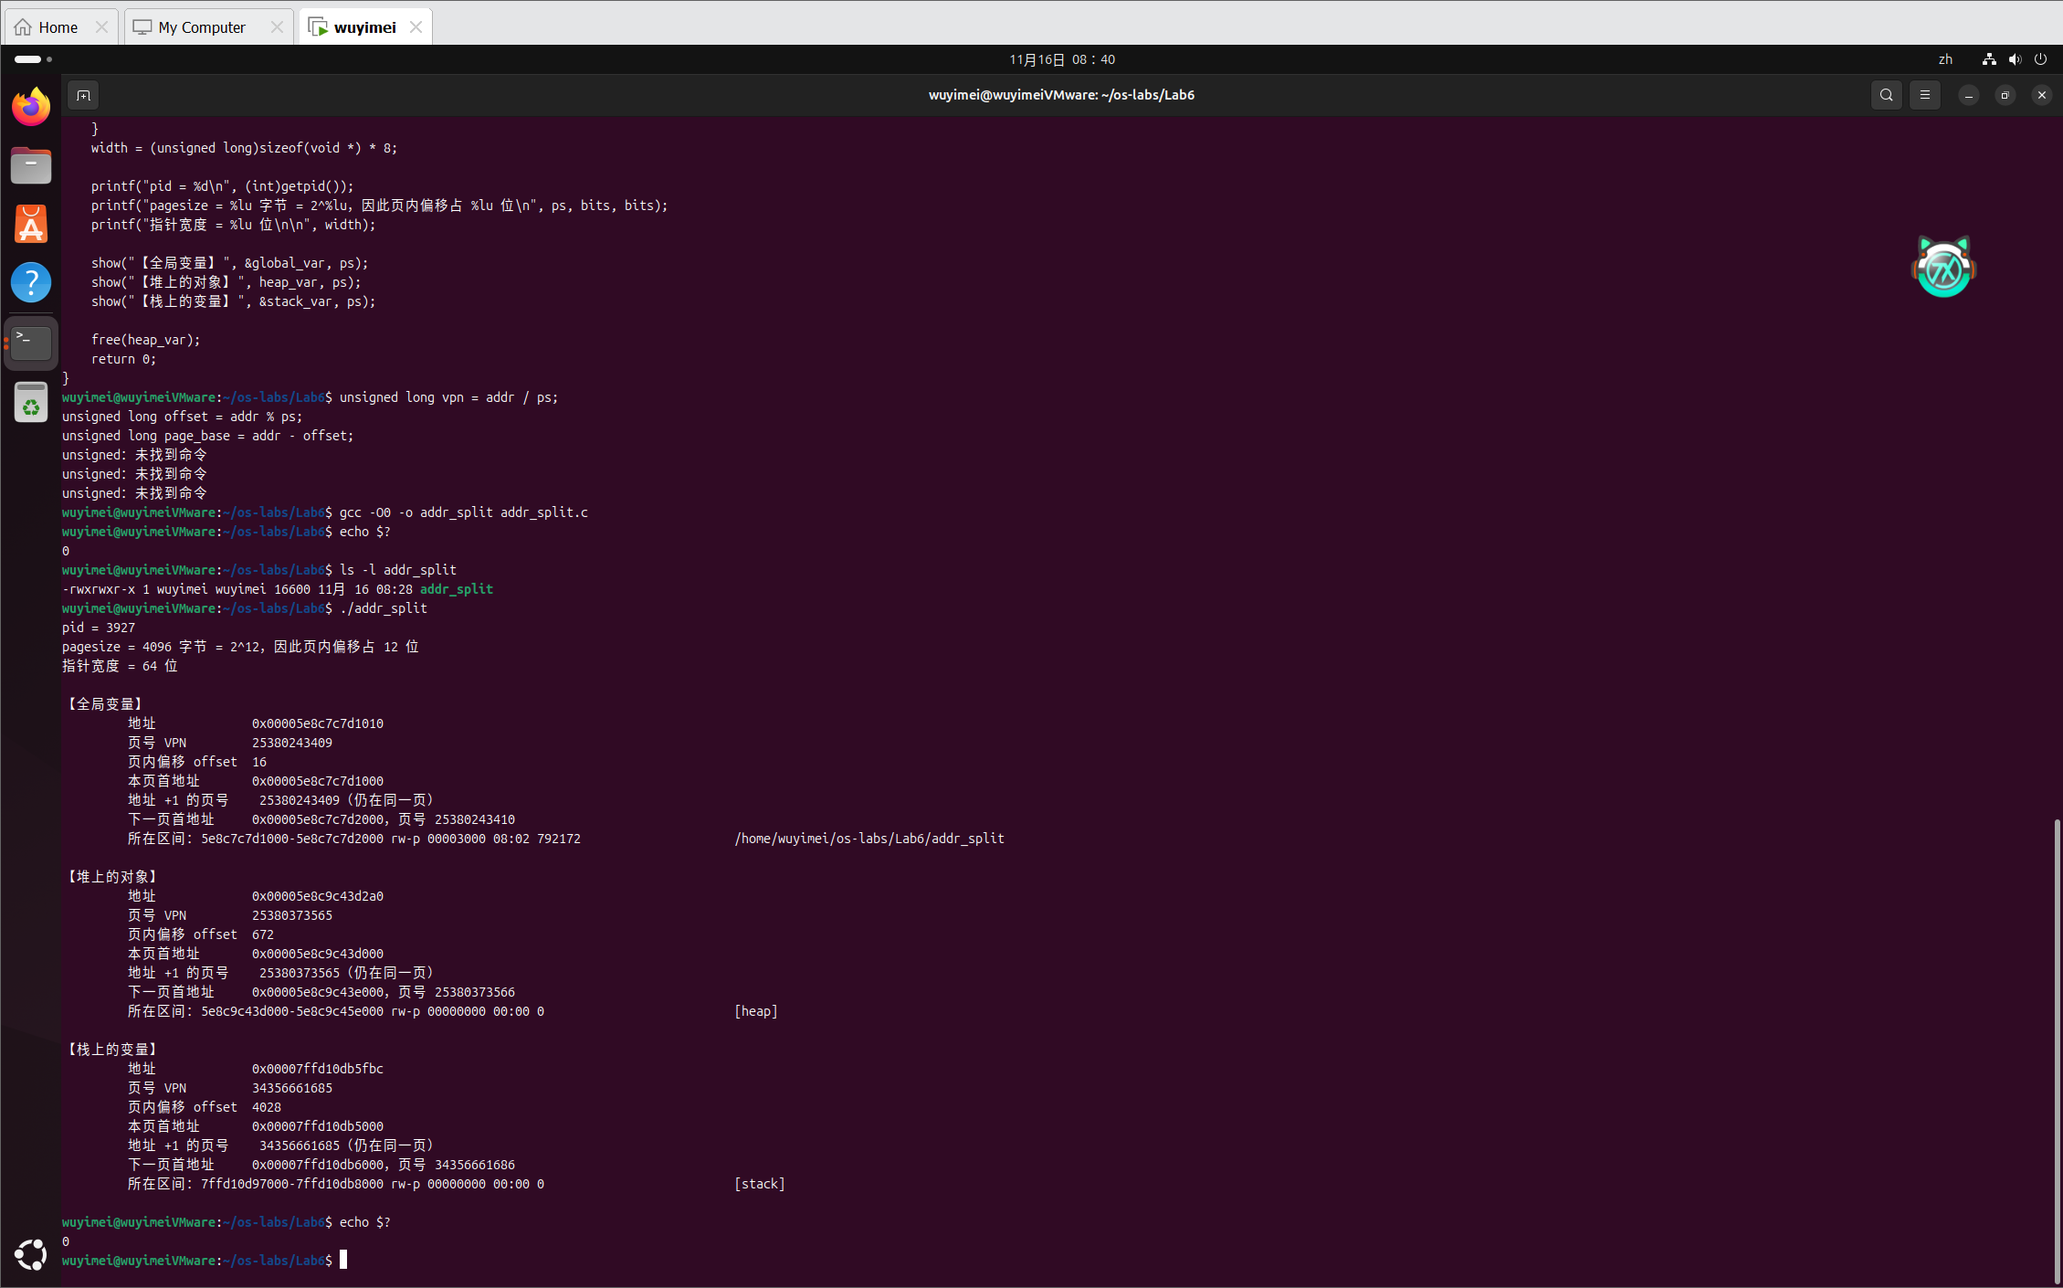
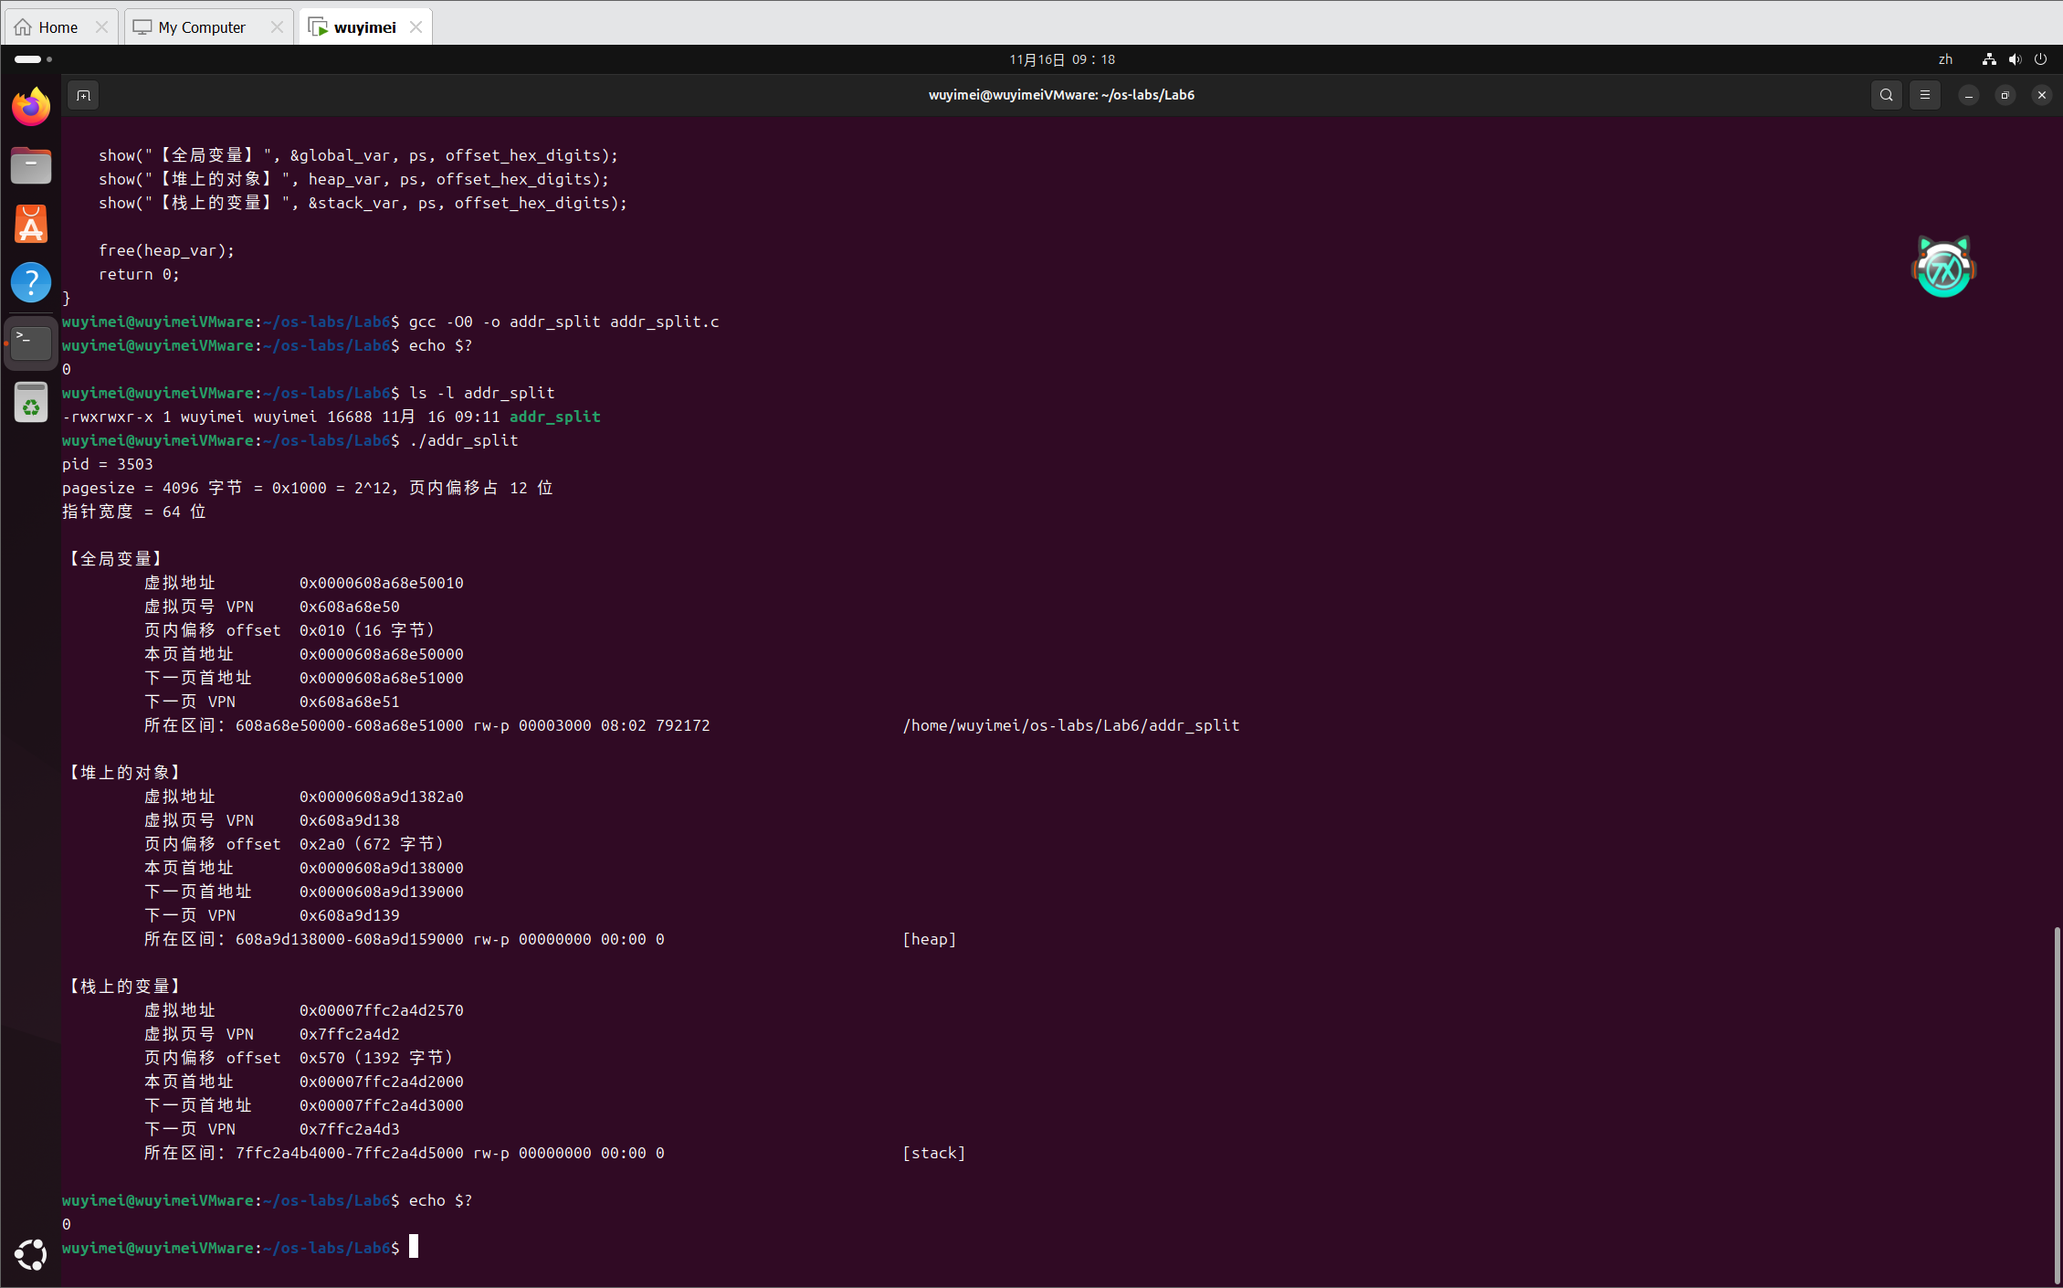
Lab6

diff --git a/2026333038吴依镁/Lab6/Lab6.md b/2026333038吴依镁/Lab6/Lab6.md
@@ -16,14 +16,7 @@
 
 ### 1.1 虚拟页号与页内偏移
 
-虚拟地址空间按固定大小划分为页，各页从 0 开始编号。一个虚拟地址由以下两部分确定：
-
-| 名称 | 记号 | 含义 |
-| :--- | :--- | :--- |
-| 虚拟页号 | VPN | 标识该地址属于哪个虚拟页 |
-| 页内偏移 | offset | 该地址相对于所属页起始地址的字节距离 |
-
-设虚拟地址为 `addr`，页大小为 `ps`：
+虚拟地址空间以页为单位划分。一个虚拟地址由**虚拟页号（VPN）**和**页内偏移（offset）**共同确定。设虚拟地址为 `addr`、页大小为 `ps`：
 
 ```text
 VPN    = addr ÷ ps 的整数商
@@ -31,44 +24,22 @@ offset = addr 除以 ps 的余数
 addr   = VPN × ps + offset
 ```
 
-例如，页大小为 4096 字节，虚拟地址为 4102：
+例如，页大小为 4096 字节，地址为 4102，则 `4102 = 1 × 4096 + 6`，VPN 为 1、偏移为 6 字节。
+
+### 1.2 为什么使用十六进制
+
+本实验使用的 Linux 通常采用 **4 KiB 页**，即 `4096 = 0x1000 = 2¹²` 字节。页内偏移占低 12 位，对应**末尾 3 位十六进制数字**；其余高位对应 VPN。
 
 ```text
-4102 = 1 × 4096 + 6
-VPN = 1，offset = 6
+虚拟地址：0x000055d0a1b2c010
+虚拟页号：0x55d0a1b2c     ← 去掉末尾 3 位
+页内偏移：0x010           ← 保留末尾 3 位（16 字节）
+本页首址：0x000055d0a1b2c000 ← 末尾 3 位置零
 ```
 
-这表示地址 4102 属于虚拟页 1，距离该页起始地址 6 字节。
+因此，地址、VPN 和页首地址用**十六进制**表示更便于观察；偏移用十六进制表示，并附带十进制字节数。程序会自动显示实际页大小，**只有页大小为 4096 字节时才能直接按末尾 3 位拆分**；其他页大小应根据实际位数或使用上面的除法与取余计算。
 
-### 1.2 页边界
-
-4 KiB 等于 4096 字节。采用该页大小时，前三个虚拟页的地址范围如下，区间两端均包含在内：
-
-| VPN | 虚拟地址范围（十进制） |
-| :---: | :--- |
-| 0 | 0～4095 |
-| 1 | 4096～8191 |
-| 2 | 8192～12287 |
-
-余数小于除数，因此页内偏移满足：
-
-```text
-0 ≤ offset < ps
-```
-
-4 KiB 页的偏移范围是 0～4095。由于 `4096 = 2¹²`，偏移占 12 个二进制位。程序会自动显示本机页大小与偏移位数，无需手工拆解二进制地址。
-
-地址增加 1 时，是否跨页取决于原偏移：
-
-- 原偏移小于 `ps − 1`：VPN 不变，偏移增加 1。
-- 原偏移等于 `ps − 1`：VPN 增加 1，偏移变为 0。
-
-例如，地址 4095 的 VPN 为 0、偏移为 4095；地址 4096 的 VPN 为 1、偏移为 0。以下两个公式用于定位当前页与下一页的起点：
-
-```text
-本页首地址   = addr − offset
-下一页首地址 = 本页首地址 + ps
-```
+页内偏移总满足 `0 ≤ offset < ps`。页大小为 4096 时，范围为 `0x000～0xfff`（即 0～4095 字节）。本页首地址为 `addr − offset`，下一页首地址为 `本页首地址 + ps`。地址增加 1 字节是否跨页，取决于当前偏移是否已到该页末尾。
 
 ### 1.3 页与内存映射区间
 
@@ -263,152 +234,85 @@ echo $?
 
 正常退出状态应为 `0`。保留本次输出，后续表格与截图统一使用这次运行的数据。重新运行时地址可能变化，不应混合不同运行的记录。
 
-### 步骤 7：按字段读取输出
+### 步骤 7：读取输出并完成实验记录
 
-以下内容仅为**教学示例**，用于说明格式和读取方法，不作为学生实测记录：
+在步骤 1 建立的本机 `Lab6.md` 中填写本节表格和问题。以下是一组**教学示例**，展示如何读取程序输出，**不得代替本人实测结果**。实际地址每次运行可能不同。
 
 ```text
 pid = 5312
-pagesize = 4096 字节 = 2^12，因此页内偏移占 12 位
+pagesize = 4096 字节 = 0x1000 = 2^12，页内偏移占 12 位
 指针宽度 = 64 位
 
 【全局变量】
-         地址             0x000055d0a1b2c010
-         页号 VPN         23035779884
-         页内偏移 offset  16
+         虚拟地址         0x000055d0a1b2c010
+         虚拟页号 VPN     0x55d0a1b2c
+         页内偏移 offset  0x010（16 字节）
          本页首地址       0x000055d0a1b2c000
-         地址 +1 的页号    23035779884（仍在同一页）
-         下一页首地址     0x000055d0a1b2d000，页号 23035779885
+         下一页首地址     0x000055d0a1b2d000
+         下一页 VPN       0x55d0a1b2d
          所在区间：55d0a1b2c000-55d0a1b2d000 rw-p 00001000 08:01 1234567 /home/student/os-labs/Lab6/addr_split
 
 【堆上的对象】
-         地址             0x000055d0a3e4f2a0
-         页号 VPN         23035788879
-         页内偏移 offset  672
+         虚拟地址         0x000055d0a3e4f2a0
+         虚拟页号 VPN     0x55d0a3e4f
+         页内偏移 offset  0x2a0（672 字节）
          本页首地址       0x000055d0a3e4f000
-         地址 +1 的页号    23035788879（仍在同一页）
-         下一页首地址     0x000055d0a3e50000，页号 23035788880
+         下一页首地址     0x000055d0a3e50000
+         下一页 VPN       0x55d0a3e50
          所在区间：55d0a3e4f000-55d0a3e70000 rw-p 00000000 00:00 0 [heap]
 
 【栈上的变量】
-         地址             0x00007ffd3c2a4b2c
-         页号 VPN         34356839076
-         页内偏移 offset  2860
+         虚拟地址         0x00007ffd3c2a4b2c
+         虚拟页号 VPN     0x7ffd3c2a4
+         页内偏移 offset  0xb2c（2860 字节）
          本页首地址       0x00007ffd3c2a4000
-         地址 +1 的页号    34356839076（仍在同一页）
-         下一页首地址     0x00007ffd3c2a5000，页号 34356839077
+         下一页首地址     0x00007ffd3c2a5000
+         下一页 VPN       0x7ffd3c2a5
          所在区间：7ffd3c286000-7ffd3c2a7000 rw-p 00000000 00:00 0 [stack]
 ```
 
-以上示例包含程序输出的环境信息和三个对象的完整记录。各段字段顺序相同，按以下顺序阅读：
+**读法提示：**每个对象从其标题读到下一对象标题之前；`0x` 表示十六进制，`pagesize` 是页大小（字节）。以示例全局变量为例，`0x...c010` 的末三位 `010` 为偏移，高位 `0x55d0a1b2c` 为 VPN；对应页首地址以 `000` 结尾。`所在区间` 取自 `/proc/self/maps`，其起止地址通常不带 `0x`，依然是十六进制。`rw-p` 表示可读、可写、不可执行及私有映射。
 
-1. **读取页大小。** `pagesize` 后的数值是后续判断使用的 `ps`。示例为 4096 字节，实际记录采用本人输出。
-2. **区分地址与值。** “地址”一行是对象的虚拟地址，不是变量中保存的 1、2 或 3；以 `0x` 开头表示十六进制。
-3. **读取 VPN 与偏移。** 两行均为十进制数。示例中三个偏移分别为 16、672、2860，均满足 `0 ≤ offset < 4096`。完整地址可以原样复制，无需手工转换为十进制。
-4. **核对页边界。** 示例全局变量的下一页 VPN 为 `23035779885`，比当前 VPN `23035779884` 大 1；堆对象和栈变量也满足这一关系。三个对象的“地址 +1”仍在同一页，是因为原偏移均未达到页末；不能据此推断所有地址增加 1 都不跨页。
-5. **识别映射区间。** “所在区间”由程序自动匹配，不需要在 maps 中搜索变量名。全局变量通常对应 `addr_split` 文件的可写映射，堆对象通常对应 `[heap]`，栈变量通常对应 `[stack]`；具体路径与标签以实际输出为准。
-
-示例全局变量的地址减去偏移 16，即得到本页首地址 `0x000055d0a1b2c000`，其映射区间恰好也从此处开始。栈变量所在页的首地址为 `0x00007ffd3c2a4000`，而栈映射区间从 `0x00007ffd3c286000` 开始，说明一个映射区间可以包含多个页，区间起点与对象所在页的首地址不一定相同。
-
-maps 中的地址通常不带 `0x`，与程序打印地址的数值表示一致。权限串 `rw-p` 分别表示可读、可写、不可执行、私有映射。设备号、inode 和文件偏移仅作输出信息保留，本次不要求解释。
-
-### 步骤 8：填写实验记录并核对
-
-在步骤 1 创建的本机报告中填写以下表格。
-
-**运行信息：**
+**A. 运行信息（本人实测）**
 
 | 项目 | 本人实测结果 |
 | :--- | :--- |
-| Ubuntu 实验目录完整路径（步骤 2 或 4 的 `pwd` 输出） | /home/wuyimei/os-labs/Lab6|
-| 编译退出状态（步骤 5 的 `echo $?`） | 0|
-| 运行退出状态（步骤 6 的 `echo $?`） |0|
-| 页大小，单位为字节（`pagesize`） |4096|
+| Ubuntu 实验目录完整路径（`pwd`） | /home/wuyimei/os-labs/Lab6|
+| 编译退出状态（步骤 5 的 `echo $?`） |0 |
+| 运行退出状态（步骤 6 的 `echo $?`） | 0|
+| 页大小（字节，`pagesize`） |4096 |
 
-**地址分解结果：填写方法**
+**B. 地址分解记录（本人同一次运行）**
 
-表格的一行对应一个对象，三个数据列分别对应程序输出中的三个字段。按以下步骤填写。
+直接按三段输出填写；虚拟地址、VPN 和 offset 都保留 `0x` 前缀，offset **只填写十六进制部分**，不要复制括号中的十进制值。
 
-**1. 确定输出段与表格行的对应关系。**
-
-- `【全局变量】` 下的字段填写到“全局变量”行。
-- `【堆上的对象】` 下的字段填写到“堆上的对象”行。
-- `【栈上的变量】` 下的字段填写到“栈上的变量”行。
-
-每段从对象名称开始，到下一个对象名称之前结束。填写某一行时，三个数值必须取自同一段输出。
-
-**2. 按列提取字段。** 以步骤 7 的全局变量教学示例为例：
-
-| 报告中的列 | 对应的输出行 | 该列填写内容 | 填写要求 |
+| 对象 | 完整虚拟地址（十六进制） | VPN（十六进制） | offset（十六进制） |
 | :--- | :--- | :--- | :--- |
-| 完整虚拟地址 | `地址 0x000055d0a1b2c010` | `0x000055d0a1b2c010` | 保留完整地址及 `0x` 前缀，不填“本页首地址”或 maps 区间起点 |
-| 页号 VPN | `页号 VPN 23035779884` | `23035779884` | 复制当前对象的页号，不填“地址 +1 的页号”或“下一页首地址”后的页号 |
-| 页内偏移 offset | `页内偏移 offset 16` | `16` | 复制偏移数值，不填页大小 `4096` 或偏移位数 `12` |
+| 全局变量 | 0x0000608a68e50010 | 0x608a68e50|  0x010（16 字节）|
+| 堆上的对象 |0x0000608a9d1382a0 |  0x608a9d138|  0x2a0（672 字节）|
+| 栈上的变量 |0x00007ffc2a4d2570 | 0x7ffc2a4d2 | 0x570（1392 字节）|
 
-记录字段右侧的数值即可。虚拟地址来自对象对应的“地址”行；VPN 与 offset 是程序根据该地址和 `pagesize` 计算的结果，其计算方法如下。
+**C. 核对与分析（需要填写答案，不只复制程序输出）**
 
-**3. 根据地址与页大小计算 VPN 和偏移。**
+1. **偏移范围核对：**根据本人实测的 `pagesize`，写出 offset 的允许范围（十六进制），列出三个对象的实测 offset，并判断是否全部符合。
 
-从输出顶部的 `pagesize` 获取页大小 `ps`，从当前对象的“地址”行获取虚拟地址 `addr`。计算关系为：
+   答：offset允许范围： 0x0000 ≤ offset < 0x1000 ；三个实测offset： 0x10 、 0x2a0 、 0x570 ，全部落在范围内，符合要求
 
-```text
-VPN    = addr ÷ ps 的整数商
-offset = addr − VPN × ps
-```
+2. **页边界计算：**假设页大小为 `4096 = 0x1000` 字节，某地址的 VPN 为 `0x2a`、offset 为 `0xfff`（4095 字节）。该地址增加 **1 字节**后，新的 VPN 和 offset 分别是多少（均写十六进制）？写出计算过程并说明是否跨页。**本题不直接抄程序结果。**
 
-其中 offset 也是 `addr` 除以 `ps` 的余数。计算后用 `VPN × ps + offset = addr` 核对，并检查 `0 ≤ offset < ps`。
+   答：原VPN=0x2a，offset=0xfff，页大小0x1000。 0xfff + 1 = 0x1000 ，超出本页偏移上限，发生跨页。新VPN =  0x2a + 1 = 0x2b ，新offset =  0x000 。说明：原地址是当前页最后一字节，加1字节后跳到下一页的起始位置。
 
-对于示例中的 4096 字节页，`4096 = 0x1000 = 2¹²`，恰好对应三位十六进制数字。因此，可将地址的末三位作为偏移，其余高位作为 VPN：
+3. **所在页与映射区间：**从本人**栈变量**的输出中，记录“本页首地址”，再从 `所在区间` 的 `起点-终点` 中取出“映射区间起点”（二者都写十六进制）。两者是否相同？结合结果说明一个 maps 映射区间与一个虚拟页之间的关系。
 
-```text
-全局变量虚拟地址：0x000055d0a1b2c010
+   本页首地址：0x0000608a68e50000
 
-VPN 的十六进制表示：0x000055d0a1b2c
-VPN 的十进制表示：  23035779884
+   映射区间起点：0x608a68e50000
 
-offset 的十六进制表示：0x010
-offset 的十进制表示：  16
+   是否相同及说明：二者相同。maps映射区间的起始地址是页对齐地址；一个maps区间可以管理多个连续虚拟页，区间起点对齐到页边界。
 
-核对：23035779884 × 4096 + 16 = 0x000055d0a1b2c010
-```
+注意：maps 区间左端包含、右端不包含；区间起点**不一定**等于栈变量所在页的首地址。若结果与预期不同，应保留真实输出并分析，不要照抄教学示例。无需计算物理地址。
 
-十六进制与十进制之间的转换可使用计算器的程序员模式。其余两个示例对象的偏移计算为：
-
-- 堆对象地址末三位为 `2a0`：`0x2a0 = 2 × 16² + 10 × 16 = 672`。
-- 栈变量地址末三位为 `b2c`：`0xb2c = 11 × 16² + 2 × 16 + 12 = 2860`。
-
-“末三位为偏移”仅适用于 4096 字节页。实测页大小不同时，应采用通用的整数除法与取余公式。报告可直接记录程序输出的计算结果，上述方法用于理解和核对数值来源。
-
-**4. 对照完整填写示例。** 根据步骤 7 的三段教学输出，填写结果如下。此表仅用于展示对应关系，学生实测数据填写在后面的空表中。
-
-| 对象 | 完整虚拟地址 | 页号 VPN | 页内偏移 offset |
-| :--- | :--- | :--- | :--- |
-| 全局变量 | `0x000055d0a1b2c010` | 23035779884 | 16 |
-| 堆上的对象 | `0x000055d0a3e4f2a0` | 23035788879 | 672 |
-| 栈上的变量 | `0x00007ffd3c2a4b2c` | 34356839076 | 2860 |
-
-**地址分解结果：本人实测记录**
-
-下表是需要填写的记录表。三个对象的数据均取自本人同一次运行，不使用上面的教学示例数值代替实测结果。
-
-| 对象 | 完整虚拟地址 | 页号 VPN | 页内偏移 offset |
-| :--- | :--- | :--- | :--- |
-| 全局变量 | 0x00005e8c7c7d1010|25380243409| 16|
-| 堆上的对象 |0x00005e8c9c43d2a0|25380373565 | 672|
-| 栈上的变量 |0x00007ffd10db5fbc|34356661685| 4028|
-
-**结果核对：**使用本次输出完成以下两项，不要求计算物理地址或不同对象之间的地址距离。
-
-| 核对项目 | 结果与依据 |
-| :--- | :--- |
-| 三个对象的偏移是否均在 `0 ≤ offset < ps` 范围内 | 是；0 ≤ offset <4096|
-| 全局变量的“下一页首地址”对应 VPN 是否等于当前 VPN 加 1 | 是；25380243409；25380243410|
-
-核对方法：页大小为 `ps` 时，偏移允许范围为 `0～ps−1`；第二项只比较程序已经打印的两个十进制页号，无需计算长十六进制地址。若不符合关系，先核对是否抄错字段或混用了两次运行，保留实际结果并注明原因。
-
-其他输出仅用于阅读与截图，不要求另抄映射区间、指针宽度或填写额外分析题。
-
-### 步骤 9：保存运行截图
+### 步骤 8：保存运行截图
 
 截图文件名为 `imgs/lab6_split.png`，保存于本机报告同级的 `imgs` 文件夹。
 
@@ -420,7 +324,7 @@ offset 的十进制表示：  16
 
 截图必须包含 `./addr_split` 命令、`pagesize`，以及全局变量、堆对象、栈变量的完整输出，各段均应包含“所在区间”。编译与运行退出状态填写在报告中，不强制要求出现在截图里。
 
-![地址分解与观测](./imgs/lab6_split.png)
+![地址分解与观测](imgs/lab6_split.png)
 
 ## 三、故障排查
 
@@ -479,8 +383,8 @@ TLB 缓存地址转换结果。命中时可以复用转换；在课程使用的 
 
 提交前核对：
 
-- 步骤 8 的运行信息、三个对象的地址分解结果及两项核对均已填写。
-- 报告采用本人实测数据，与步骤 9 的截图对应同一次运行。
+- 步骤 7 的运行信息、三个对象的地址分解记录及三道分析题均已填写。
+- 报告采用本人实测数据，与步骤 8 的截图对应同一次运行。
 - 图片在 Markdown 预览中显示正常，命令与输出清晰可读，未使用手机拍屏或他人截图。
 - 报告保留模板正文、表格与图片引用，选读不要求作答。
 - 源码、可执行文件与其他运行材料留在 Ubuntu 实验目录，不增加提交文件。
